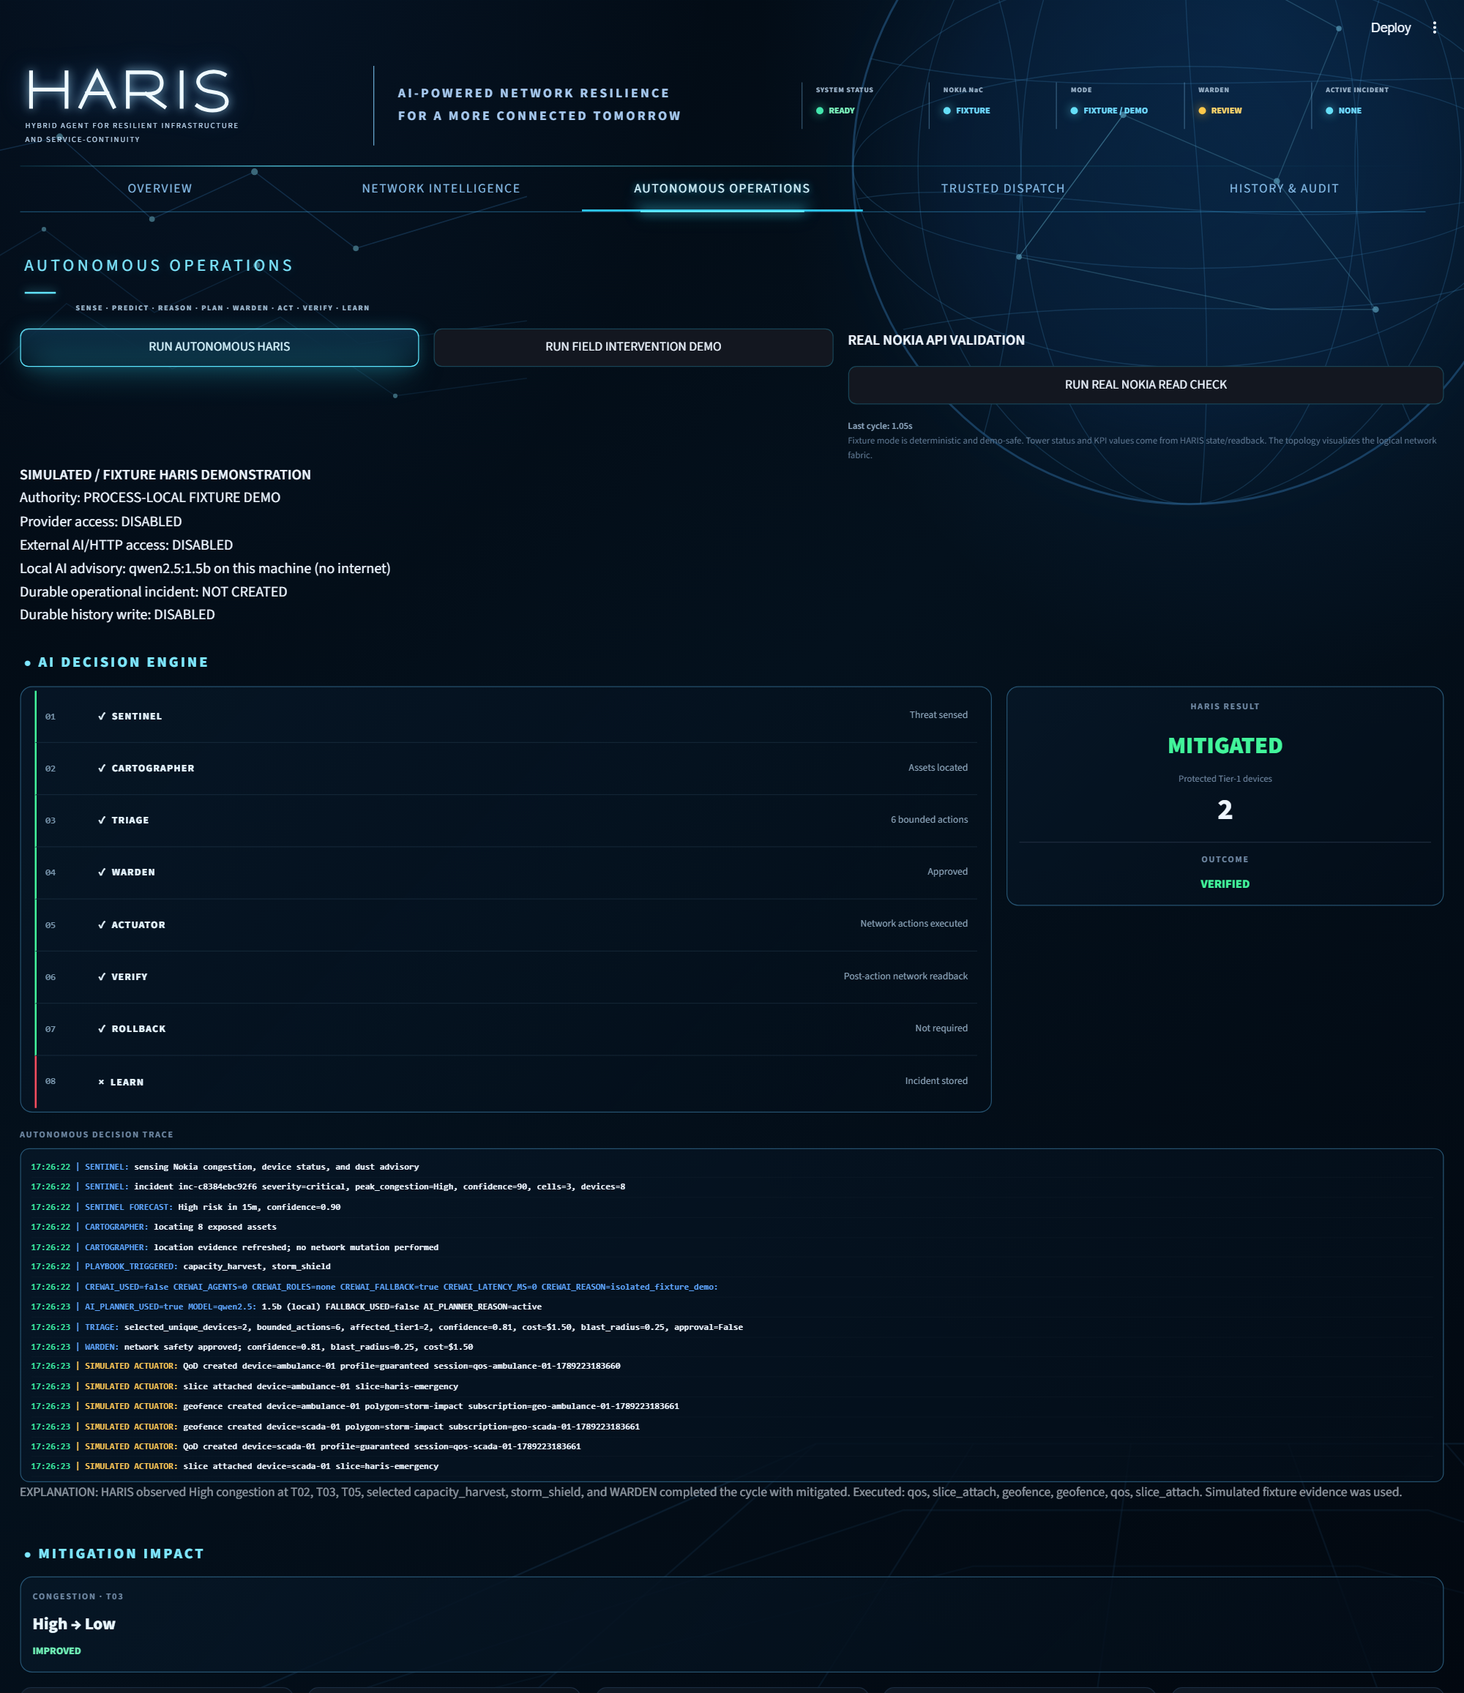
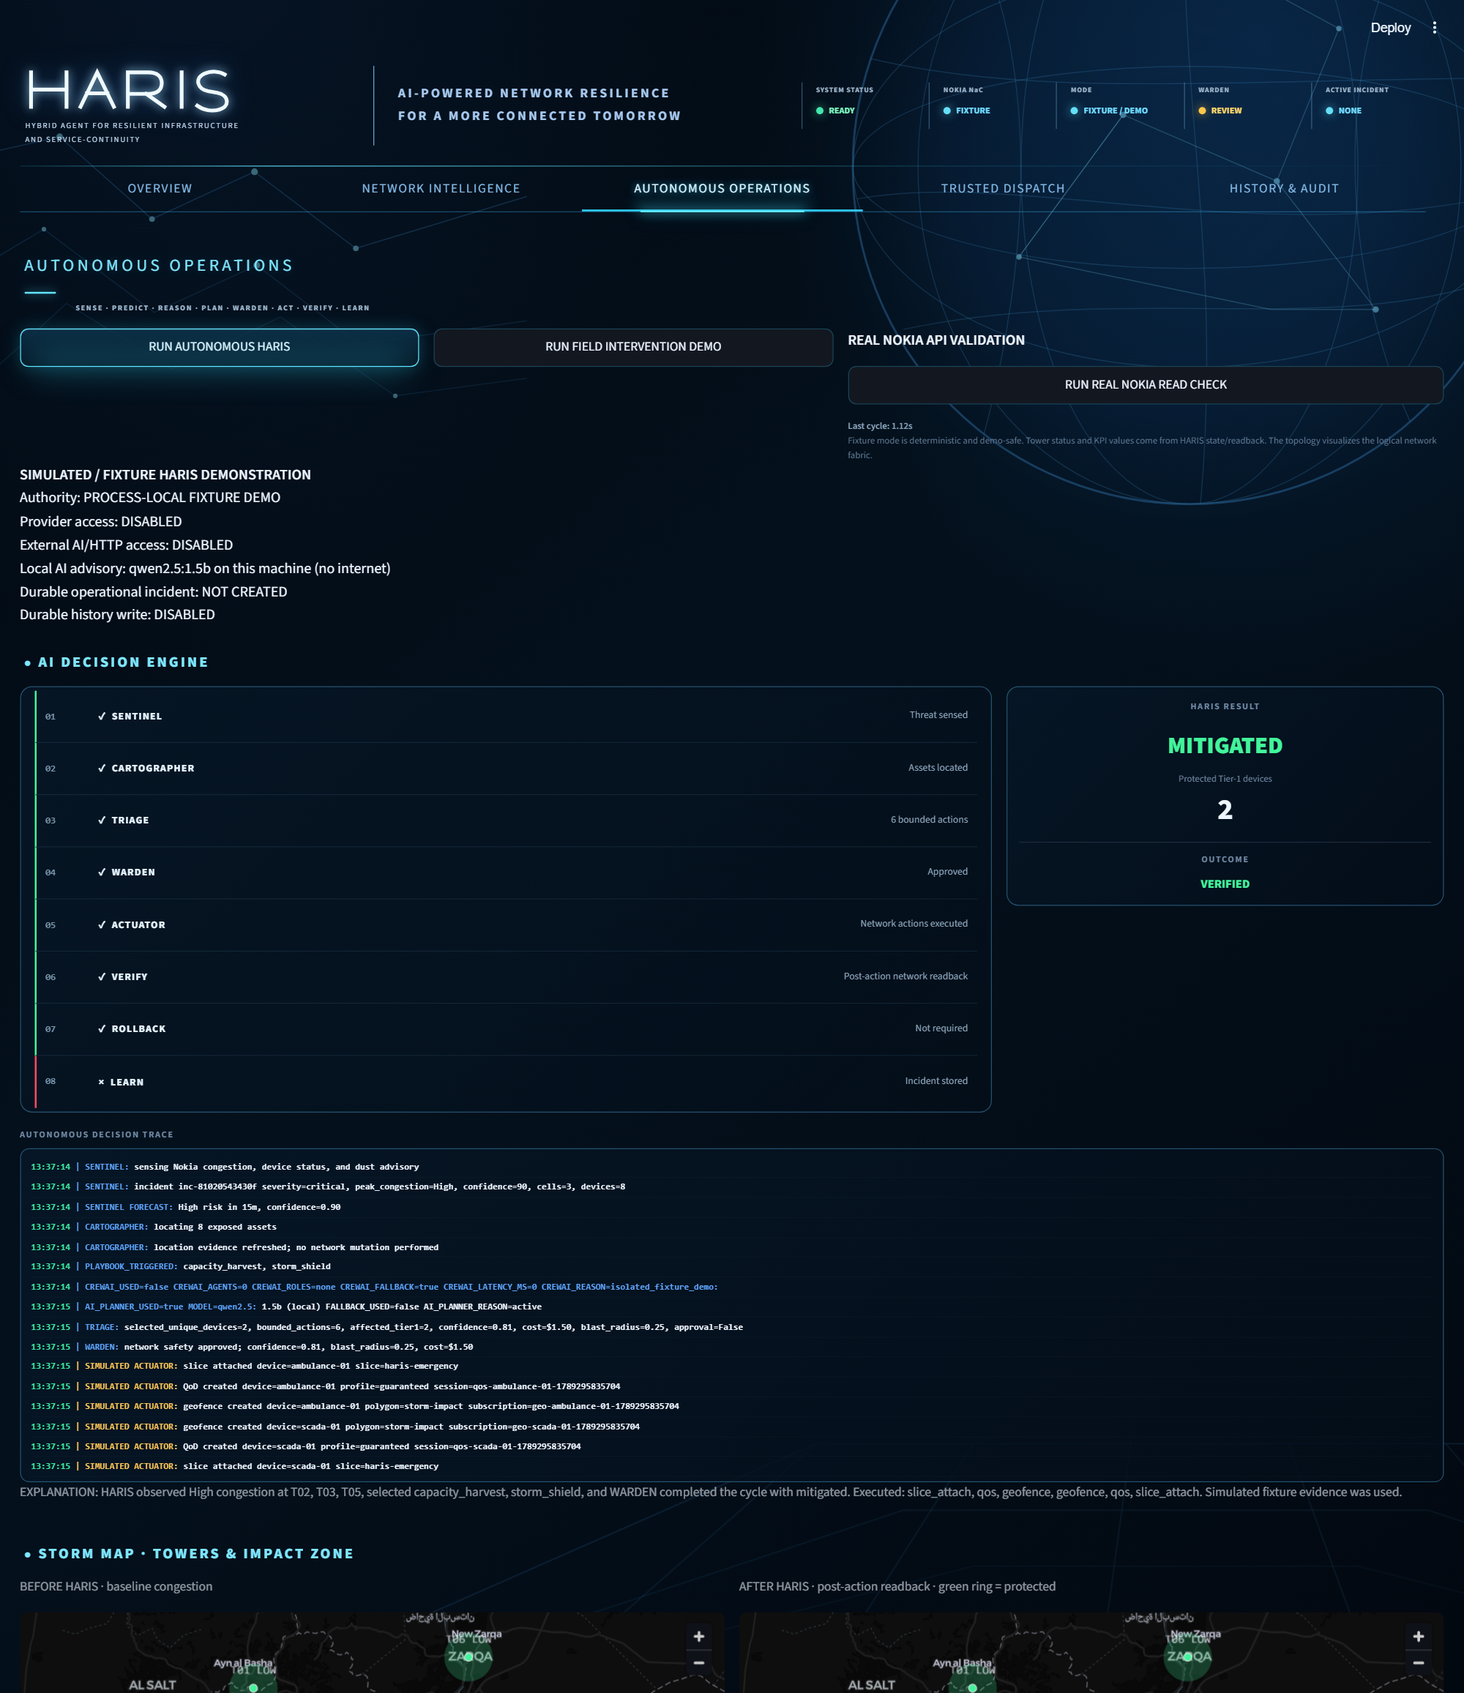
Add a before/after storm map of towers, storm zone and critical devices
The console had only a logical topology diagram. The map shows the cell
sites coloured by the cycle's categorical congestion evidence (baseline vs
post-action readback), the storm-impact circle, tier-1 devices from
CARTOGRAPHER location evidence, and a green ring on devices HARIS protected.
Site positions and the circle are labelled SIMULATED demo geography; the
circle follows NAC_GEOFENCE_AREAS["storm-impact"] when configured.

test_storm_map.py: 3 tests; offline suite 690 passed, OFFLINE_SAFE.

diff --git a/app.py b/app.py
@@ -1630,6 +1630,147 @@ def render_network_section(
 
 
 # ============================================================================
+# Storm map
+# ============================================================================
+
+# Demo geography for the HARIS logical cells, around Amman. Configuration, not
+# telemetry: tower colours always come from the cycle's congestion evidence.
+CELL_SITES: Dict[str, Tuple[float, float]] = {
+    "T01": (32.035, 35.845), "T02": (31.950, 35.935), "T03": (31.972, 35.892),
+    "T04": (31.995, 36.020), "T05": (31.838, 36.018), "T06": (32.065, 36.090),
+    "T07": (31.880, 36.110),
+}
+# Used when NAC_GEOFENCE_AREAS does not configure a "storm-impact" area.
+DEMO_STORM_AREA = {"latitude": 31.905, "longitude": 35.955, "radius_m": 11000.0}
+LEVEL_RGB = {"High": [255, 77, 95], "Medium": [255, 200, 87], "Low": [66, 245, 155], "None": [66, 245, 155]}
+UNKNOWN_RGB = [120, 144, 170]
+
+
+def storm_area() -> Dict[str, float]:
+    configured = settings.nac_geofence_areas.get("storm-impact")
+    return configured.model_dump() if configured else dict(DEMO_STORM_AREA)
+
+
+def _coordinate(value: Any) -> Optional[float]:
+    try:
+        return float(value)
+    except (TypeError, ValueError):
+        return None
+
+
+def storm_map_data(
+    levels: Dict[str, Optional[str]],
+    devices: List[Dict[str, Any]],
+    locations: List[Dict[str, Any]],
+    protected: set,
+    area: Dict[str, float],
+) -> Dict[str, List[Dict[str, Any]]]:
+    """Plain layer rows for the storm map, kept pydeck-free so they are testable."""
+    towers = []
+    for cell, (lat, lon) in CELL_SITES.items():
+        level = levels.get(cell) if levels.get(cell) in LEVEL_RGB else None
+        rgb = LEVEL_RGB.get(level, UNKNOWN_RGB)
+        towers.append({
+            "cell": cell, "lat": lat, "lon": lon, "level": level or "N/A",
+            "colour": rgb + [255], "halo": rgb + [55],
+            "label": f"{cell} {str(level or 'N/A').upper()}",
+            "tip": f"Tower {cell} - Nokia congestion: {level or 'N/A'}",
+        })
+    where = {
+        str(item.get("device_id")): (_coordinate(item.get("latitude")), _coordinate(item.get("longitude")))
+        for item in locations if isinstance(item, dict)
+    }
+    points = []
+    for device in devices:
+        if not isinstance(device, dict):
+            continue
+        device_id = str(device.get("device_id"))
+        lat, lon = where.get(device_id, (None, None))
+        if lat is None or lon is None:
+            continue  # no location evidence, so no dot
+        tier = device.get("tier")
+        points.append({
+            "device": device_id, "lat": lat, "lon": lon, "tier": tier,
+            "colour": [49, 215, 255, 255] if tier == 1 else [190, 198, 210, 220],
+            "protected": device_id in protected,
+            "tip": f"{device_id} - tier {tier} - {device.get('cell_id')}"
+                   + (" - PROTECTED by HARIS" if device_id in protected else ""),
+        })
+    zone = [{
+        "lat": area["latitude"], "lon": area["longitude"], "radius": area["radius_m"],
+        "tip": f"Storm-impact zone - {area['radius_m'] / 1000:.0f} km (SIMULATED)",
+    }]
+    return {"towers": towers, "devices": points, "rings": [p for p in points if p["protected"]], "zone": zone}
+
+
+def storm_map_deck(rows: Dict[str, List[Dict[str, Any]]]):
+    import pydeck as pdk
+
+    position = "[lon, lat]"
+    layers = [
+        pdk.Layer("ScatterplotLayer", data=rows["zone"], get_position=position, get_radius="radius",
+                  filled=True, get_fill_color=[255, 140, 0, 30], stroked=True,
+                  get_line_color=[255, 170, 70, 220], line_width_min_pixels=2, pickable=True),
+        pdk.Layer("ScatterplotLayer", data=rows["towers"], get_position=position, get_radius=2600,
+                  get_fill_color="halo"),
+        pdk.Layer("ScatterplotLayer", data=rows["towers"], get_position=position, get_radius=420,
+                  get_fill_color="colour", stroked=True, get_line_color=[255, 255, 255, 210],
+                  line_width_min_pixels=1, pickable=True),
+        pdk.Layer("ScatterplotLayer", data=rows["rings"], get_position=position, get_radius=650,
+                  filled=False, stroked=True, get_line_color=[66, 245, 155, 255], line_width_min_pixels=2),
+        pdk.Layer("ScatterplotLayer", data=rows["devices"], get_position=position, get_radius=230,
+                  get_fill_color="colour", pickable=True),
+        pdk.Layer("TextLayer", data=rows["towers"], get_position=position, get_text="label",
+                  get_size=13, get_color=[235, 242, 250], get_pixel_offset=[0, -20]),
+    ]
+    return pdk.Deck(
+        map_provider="carto", map_style="dark",
+        initial_view_state=pdk.ViewState(latitude=31.94, longitude=35.98, zoom=9.4),
+        layers=layers, tooltip={"text": "{tip}"},
+    )
+
+
+def render_storm_map(result: Optional[Dict[str, Any]], key: str) -> None:
+    """Towers coloured by the cycle's congestion, the storm zone and critical devices."""
+    data = safe_mapping(result)
+    after = {cell: values.get("congestion_level") for cell, values in congestion_map(result).items()}
+    before = {cell: values.get("congestion_level") for cell, values in baseline_map(result).items()}
+    if not after and not before:
+        return
+    st.markdown(
+        '<div class="section-title"><span class="section-mark">●</span><span>STORM MAP · TOWERS &amp; IMPACT ZONE</span></div>',
+        unsafe_allow_html=True,
+    )
+    devices = [item for item in data.get("devices") or [] if isinstance(item, dict)]
+    locations = [item for item in data.get("locations") or [] if isinstance(item, dict)]
+    executed = bool(safe_mapping(data.get("execution")).get("executed"))
+    protected = set(safe_mapping(data.get("plan")).get("selected_device_ids") or []) if executed else set()
+    area = storm_area()
+    try:
+        if before and after and before != after:
+            left, right = st.columns(2)
+            with left:
+                st.caption("BEFORE HARIS · baseline congestion")
+                st.pydeck_chart(storm_map_deck(storm_map_data(before, devices, locations, set(), area)),
+                                width="stretch", height=380, key=f"storm-map-{key}-before")
+            with right:
+                st.caption("AFTER HARIS · post-action readback · green ring = protected")
+                st.pydeck_chart(storm_map_deck(storm_map_data(after, devices, locations, protected, area)),
+                                width="stretch", height=380, key=f"storm-map-{key}-after")
+        else:
+            st.pydeck_chart(storm_map_deck(storm_map_data(after or before, devices, locations, protected, area)),
+                            width="stretch", height=420, key=f"storm-map-{key}")
+    except Exception:
+        logger.warning("Storm map unavailable; details suppressed")
+        st.caption("Storm map unavailable.")
+        return
+    st.caption(
+        "Site positions and the storm-impact circle are HARIS-configured demo geography (SIMULATED). "
+        "Tower colours are the cycle's categorical congestion evidence; device dots use CARTOGRAPHER location evidence."
+    )
+
+
+# ============================================================================
 # KPI impact
 # ============================================================================
 
@@ -2474,6 +2615,8 @@ def render_network_intelligence(result: Optional[Dict[str, Any]]) -> None:
     render_prediction(result)
     cached_network = st.session_state.get("network_intelligence_entities")
     render_network_section(result, cached_network if isinstance(cached_network, dict) else None)
+    # Locally the demo cycle lives in session state rather than in `result`.
+    render_storm_map(result or st.session_state.get("fixture_demo_cycle"), key="intel")
     geofence_events = [event for event in (safe_mapping(result).get("events") or []) if "GEOFENCE" in safe_upper(safe_mapping(event).get("message"), "")]
     st.markdown('### GEOFENCE EVENTS')
     if geofence_events: st.dataframe(geofence_events, width="stretch", hide_index=True)
@@ -2691,6 +2834,7 @@ def render_console() -> None:
             )
         autonomous_result = fixture_demo_presentation_cycle(fixture_demo) if fixture_demo else result
         render_decision_engine(autonomous_result)
+        render_storm_map(autonomous_result, key="ops")
         render_impact(autonomous_result)
         render_playbook_and_feed(autonomous_result)
     elif section == "TRUSTED DISPATCH":

diff --git a/test_storm_map.py b/test_storm_map.py
@@ -1,0 +1,46 @@
+"""Storm map rows come from cycle evidence; the geography is configuration only."""
+
+import unittest
+
+import app
+
+
+class StormMapTests(unittest.TestCase):
+    def setUp(self):
+        self.area = dict(app.DEMO_STORM_AREA)
+        self.devices = [
+            {"device_id": "ambulance-01", "tier": 1, "cell_id": "T03"},
+            {"device_id": "sensor-01", "tier": 3, "cell_id": "T03"},
+            {"device_id": "ghost-01", "tier": 1, "cell_id": "T05"},
+        ]
+        self.locations = [
+            {"device_id": "ambulance-01", "latitude": 31.96, "longitude": 35.91},
+            {"device_id": "sensor-01", "latitude": "31.97", "longitude": 35.90},
+        ]
+
+    def test_tower_colours_follow_congestion_evidence_and_never_guess(self):
+        rows = app.storm_map_data({"T03": "High", "T01": "Low", "T04": "bogus"}, [], [], set(), self.area)
+        towers = {t["cell"]: t for t in rows["towers"]}
+        self.assertEqual(set(towers), set(app.CELL_SITES))
+        self.assertEqual(towers["T03"]["colour"][:3], app.LEVEL_RGB["High"])
+        self.assertEqual(towers["T01"]["colour"][:3], app.LEVEL_RGB["Low"])
+        for missing in ("T02", "T04"):
+            self.assertEqual(towers[missing]["level"], "N/A")
+            self.assertEqual(towers[missing]["colour"][:3], app.UNKNOWN_RGB)
+        self.assertEqual(len(app.storm_map_deck(rows).layers), 6)
+
+    def test_only_located_devices_are_drawn_and_only_protected_ones_are_ringed(self):
+        rows = app.storm_map_data({}, self.devices, self.locations, {"ambulance-01"}, self.area)
+        self.assertEqual([d["device"] for d in rows["devices"]], ["ambulance-01", "sensor-01"])
+        self.assertEqual([d["device"] for d in rows["rings"]], ["ambulance-01"])
+        self.assertIn("PROTECTED", rows["rings"][0]["tip"])
+
+    def test_storm_zone_is_labelled_simulated_and_configurable(self):
+        self.assertEqual(app.storm_area()["radius_m"], app.DEMO_STORM_AREA["radius_m"])
+        rows = app.storm_map_data({}, [], [], set(), {"latitude": 1.0, "longitude": 2.0, "radius_m": 5000.0})
+        self.assertEqual(rows["zone"][0]["radius"], 5000.0)
+        self.assertIn("SIMULATED", rows["zone"][0]["tip"])
+
+
+if __name__ == "__main__":
+    unittest.main()

diff --git a/scripts/capture_screens.py b/scripts/capture_screens.py
@@ -64,6 +64,20 @@ def main() -> int:
             trace.screenshot(path=str(out / "trace_storm.png"))
         print("captured console_storm.png, trace_storm.png")
 
+        deck = page.locator('[data-testid="stDeckGlJsonChart"]').first
+        deck.wait_for(timeout=60_000)
+        deck.evaluate("e => e.scrollIntoView({block: 'center'})")
+        page.wait_for_timeout(8_000)  # basemap tiles and deck.gl layers
+        top = page.get_by_text("STORM MAP", exact=False).first.bounding_box()
+        decks = page.locator('[data-testid="stDeckGlJsonChart"]')
+        bottom = decks.nth(decks.count() - 1).bounding_box()
+        page.screenshot(path=str(out / "storm_map.png"), clip={
+            "x": 0, "y": top["y"] - 16, "width": page.viewport_size["width"],
+            "height": bottom["y"] + bottom["height"] - top["y"] + 32,
+        })
+        print("captured storm_map.png")
+        open_tab(page, "AUTONOMOUS OPERATIONS")
+
         press(page, "RUN FIELD INTERVENTION DEMO")
         page.wait_for_timeout(8_000)
         open_tab(page, "TRUSTED DISPATCH")

diff --git a/docs/SUBMISSION.md b/docs/SUBMISSION.md
@@ -34,7 +34,7 @@ as Code. The video shows:
    touches the network. The AI can only rank what policy already allowed.
 4. **The agent acts and verifies.** ACTUATOR opens guaranteed Quality on Demand
    sessions, attaches the protected slice and sets geofences. VERIFY reads the
-   network back: T03 falls from High to Low, 8 of 8 devices reachable,
+   network back: T03 falls from High to Low — on the storm map the tower turns from red to green — 8 of 8 devices reachable,
    incident MITIGATED. If verification fails, HARIS rolls back only the
    resources it owns.
 5. **The trust layer refuses.** A tower power fault needs a technician on
@@ -139,7 +139,7 @@ Validating them on a live operator network is the first pilot milestone.*
   as success.
 - The audit trail is SHA-256 hash-chained and tamper-evident; it is not
   described as signed or immutable storage.
-- Quality: **687 offline tests pass** (`python run_offline_tests.py`) with
+- Quality: **690 offline tests pass** (`python run_offline_tests.py`) with
   zero external network or provider calls.
 
 ---
@@ -158,7 +158,7 @@ Resource & Tooling Guide).
 | 0:20–0:40 | Network Intelligence: topology, capability matrix | "HARIS watches the cells and critical assets that matter — ambulances, SCADA gateways, fleets and sensors — through seven GSMA Open Gateway capabilities on Nokia Network as Code. Every value is labelled: real, derived, simulated or unavailable." |
 | 0:40–1:05 | Autonomous Operations: press RUN AUTONOMOUS HARIS; the eight-stage decision engine lights up | "A dust advisory lands. SENTINEL sees High congestion on three cells and opens an incident. CARTOGRAPHER finds eight exposed devices. TRIAGE proposes six bounded actions for the two lives-and-safety assets." |
 | 1:05–1:25 | trace line `AI_PLANNER_USED=true MODEL=qwen2.5:1.5b (local)` | "An AI advisor ranks those actions — and this one runs on the laptop, with no internet at all. If the storm takes the backhaul, HARIS keeps thinking. The model can only rank what policy allowed." |
-| 1:25–1:50 | WARDEN approved line, ACTUATOR lines, Mitigation Impact card | "WARDEN, the deterministic safety authority, checks confidence, blast radius and cost. Then HARIS acts: guaranteed Quality on Demand, a protected slice, a geofence. And it verifies — T03 drops from High to Low, eight of eight devices reachable." |
+| 1:25–1:50 | WARDEN approved line, ACTUATOR lines, storm map before/after, Mitigation Impact card | "WARDEN, the deterministic safety authority, checks confidence, blast radius and cost. Then HARIS acts: guaranteed Quality on Demand, a protected slice, a geofence. And it verifies — on the map, tower T03 turns from red to green, and eight of eight devices are reachable." |
 | 1:50–2:25 | Trusted Dispatch (deployed app): Number Verification, SIM Swap, BLOCK, fallback engineer | "A tower needs a technician. Before anyone gets site access, WARDEN runs Nokia Number Verification and SIM Swap. This number's SIM was swapped recently — dispatch blocked. HARIS moves to the next engineer and asks for fresh consent. A hijacked number never reaches the tower." |
-| 2:25–2:50 | RUN REAL NOKIA READ CHECK result; History & Audit chain verified | "This is not a mock-up. One press reads the real Nokia platform. Every decision lands in a durable, hash-chained audit trail that survives restarts — and 687 automated tests hold it all together." |
+| 2:25–2:50 | RUN REAL NOKIA READ CHECK result; History & Audit chain verified | "This is not a mock-up. One press reads the real Nokia platform. Every decision lands in a durable, hash-chained audit trail that survives restarts — and 690 automated tests hold it all together." |
 | 2:50–3:00 | end card: HARIS · repo · app URL | "HARIS. Autonomous, bounded and honest — on any Open Gateway operator. Thank you." |

diff --git a/docs/MERGE_NOTES.md b/docs/MERGE_NOTES.md
@@ -11,12 +11,13 @@ the dispatch security flow or the Nokia clients was changed.
 | Local AI advisor (Ollama) as the last tier of the planner's advisory chain | `agents.py` (`LocalChatModel`, `ReasoningRouter`), `config.py` (`LOCAL_LLM_*`), `.env.example` | A storm can take the backhaul down; the advisor keeps working on the laptop. Loopback URLs only, bounded exactly like Gemini/Groq, and the only advisor the isolated fixture demo may consult. |
 | Console line for the local advisor | `app.py` (fixture demo panel) | Judges see which model answered and that no internet was used. |
 | Tests | `test_local_llm.py` (8 tests) | Loopback-only URLs, chain order, hosted-first, local-only in the isolated demo, hallucinated IDs rejected, TEST runtime never builds it. |
+| Storm map | `app.py` (`render_storm_map`), `test_storm_map.py` (3 tests) | Before/after geographic map in Autonomous Operations and Network Intelligence: towers coloured by the cycle's congestion evidence, the storm-impact circle, tier-1 devices and a green ring on protected ones. Site positions are labelled SIMULATED demo geography. |
 | One-click launcher | `START-HARIS.bat`, `STOP-HARIS.bat`, `.gitattributes`, `assets/haris.ico` | Creates `.venv`, installs requirements, copies `.env.example`, detects Ollama, pre-loads the model, opens the console. |
 | Screenshot capture | `scripts/capture_screens.py` | Regenerates the images used in the README and the deck. |
 | Submission texts | `docs/SUBMISSION.md` | Demo description, API synopsis, commercial value, business impact, honest scope and the 3-minute video script, written against this code. |
 | README | local AI section, one-click setup, test count | |
 
-Offline suite on this branch: **687 passed, 0 failed, OFFLINE_SAFE** (679 before + 8 new).
+Offline suite on this branch: **690 passed, 0 failed, OFFLINE_SAFE** (679 before + 11 new).
 
 ## Before submitting — deployed app
 

diff --git a/README.md b/README.md
@@ -14,6 +14,8 @@ Sense -> Reason -> Guard -> Act -> Verify -> Learn
 
 HARIS is autonomous within defined policy authority. Capabilities that require unsupported controls, human consent, or operator resources remain explicitly bounded or unavailable rather than being presented as completed live operations.
 
+![HARIS storm map — towers before and after HARIS acts](docs/screenshots/storm_map.png)
+
 ![HARIS console — autonomous storm cycle with the local AI advisor](docs/screenshots/console_storm.png)
 
 <details>
@@ -264,8 +266,8 @@ The real validation exercises database-level correctness through unique and idem
 Latest complete offline-safe result:
 
 ```text
-OFFLINE_TEST_TOTAL=687
-PASSED=687
+OFFLINE_TEST_TOTAL=690
+PASSED=690
 FAILED=0
 ERRORS=0
 OFFLINE_SAFE
